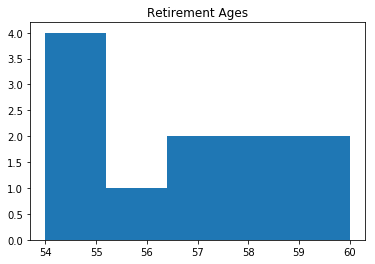
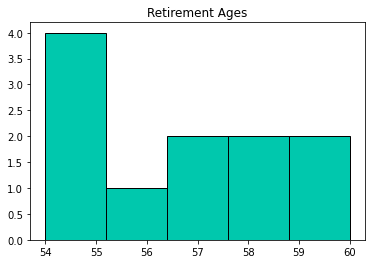
correct histogram introduction (after resequencing) and improve plot appearance

diff --git a/README.md b/README.md
@@ -1,4 +1,3 @@
-
 # Measures of Central Tendency
 
 ## Introduction
@@ -90,9 +89,9 @@ The mode is particularly useful for categorical data (data grouped into categori
 
 ## Histograms and Central Tendency
 
-We have already seen how to draw histograms for a given set of values. Histograms can also be used as an additional aid to help decide between different measures of central tendency. 
+Histograms are a type of plot used to show the distribution of a single variable. The x-axis shows bins of values present in the dataset, and the y-axis shows a count of the number of cases falling into each bin.
 
-> A histogram is a type of graph in which the x-axis lists categories or values for a dataset, and the y-axis shows a count of the number of cases falling into each category.
+They can be used as an additional aid to help decide between different measures of central tendency.
 
 For the sample data above, let's draw a histogram for retirement ages.
 
@@ -100,9 +99,9 @@ For the sample data above, let's draw a histogram for retirement ages.
 ```python
 import matplotlib.pyplot as plt
 x = [54, 54, 54, 55, 56, 57, 57, 58, 58, 60, 60]
-plt.hist(x, bins=5)
-plt.title("Retirement Ages")
-plt.show()
+bins = 5
+plt.hist(x, bins=bins, edgecolor="black", color="#00C8AD")
+plt.title("Retirement Ages");
 ```
 
 
@@ -113,7 +112,18 @@ Here we can see that the mean value, i.e. 56.6 does not fully reflect the typica
 
 > In a histogram, you can always visually locate the bin where most of the values occur (as peaks). That's the concept that a measure of central tendency attempts to represent as a number.
 
-Try putting in the values for the weight dataset and see what you think of the histogram. Also, try changing the bin size and see if it helps you better understand the distribution of underlying data.  
+Try putting in the values for the weight dataset and see what you think of the histogram. Also, try changing the bin size and see if it helps you better understand the distribution of underlying data. 
+
+
+```python
+# Use this cell to explore the weight dataset from previous lessons,
+# or a set of values of your choice
+x = []
+bins = 5
+
+plt.hist(x, bins=bins, edgecolor="black", color="#00C8AD")
+plt.title("Weights");
+```
 
 ## Histogram Shape and Measures of Central Tendency
 
